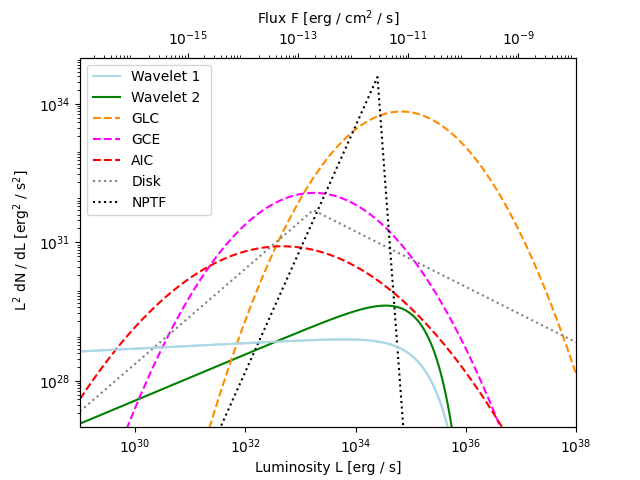
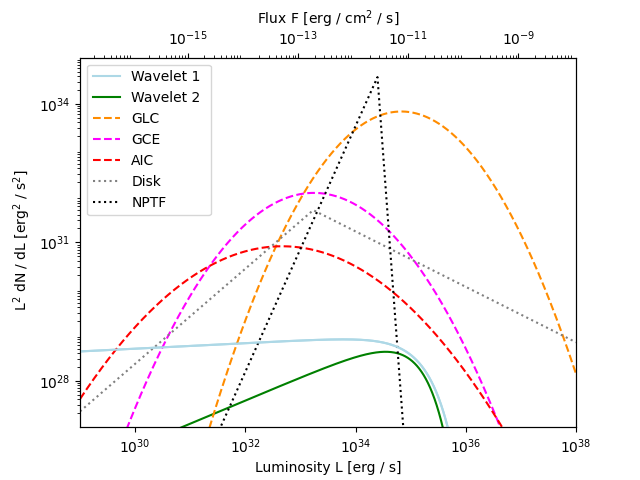
minor

diff --git a/luminosity_func.py b/luminosity_func.py
@@ -65,7 +65,7 @@ p_pl1 = power_law(l , alpha1 , l_m1 , l_M1) #ming power law lum func
 
 #-----------------------------------------------------------------------------
 #wavelet 2 - power law 
-l_m2 = 1.0e30  #erg s^(-1)  #L_min : low flux step-func cutoff
+l_m2 = 1.0e29  #erg s^(-1)  #L_min : low flux step-func cutoff
 l_M2 = 7.0e34  #erg s^(-1)   #L_MAX : high flux exp cutoff
 alpha2 = 1.5  #slope
 
